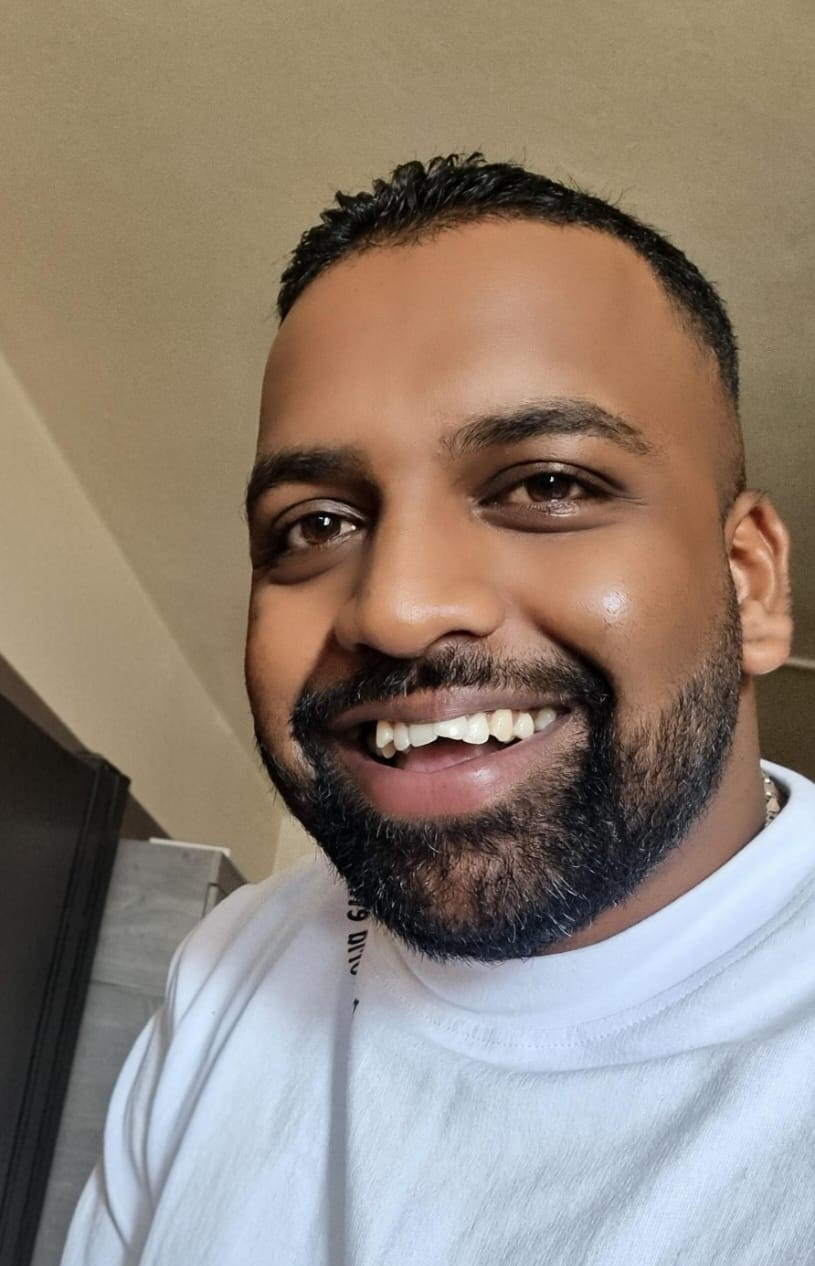
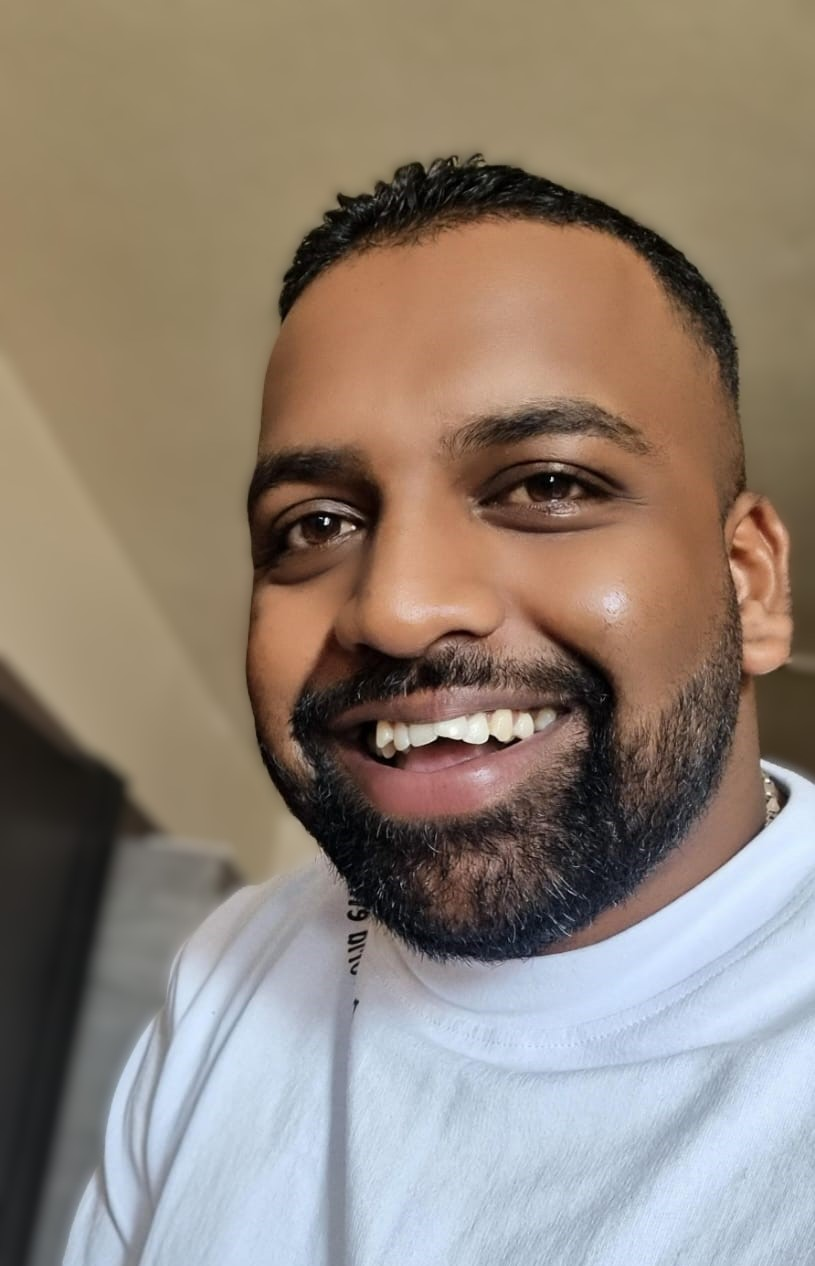
Amended Profile Image

diff --git a/index.html b/index.html
@@ -51,7 +51,7 @@
                         <div class="col-md-6 col-sm-12">
                             <div class="row">
                                 <div class="col-md-6">
-                                    <img src="./assets/profile.jpg" alt="Profile Picture" class="rounded float-left img-fluid" style="max-width: 100%; height: auto;">
+                                    <img src="./assets/profile.jpeg" alt="Profile Picture" class="rounded float-left img-fluid" style="max-width: 100%; height: auto;">
                                 </div>
                                 <div class="col-md-6 mt-3">
                                     <p><strong>Name:</strong> Al-Ridhaa Khan</p>
@@ -196,7 +196,7 @@
       </section>
     </main>
       <footer class="footer">
-        <p class="text-center mt-3 mb-2">© 2026 Al-Ridhaa Khan. All rights reserved.</p>
+        <p class="text-center mt-3 mb-2">© 2026 Developed by Al-Ridhaa Khan. All Rights Reserved.</p>
       </footer>
   </body>
 </html>
